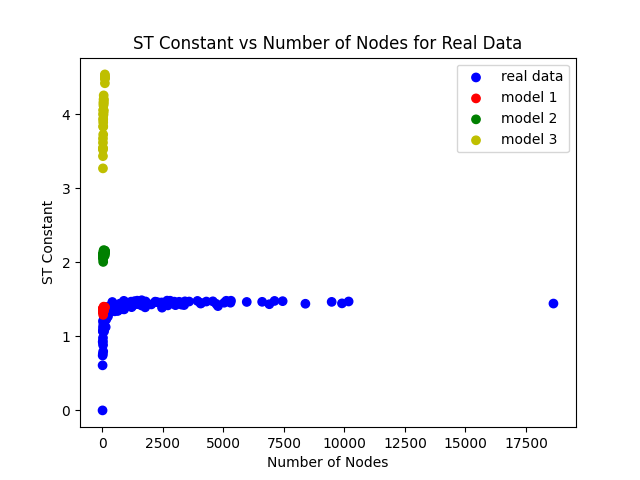
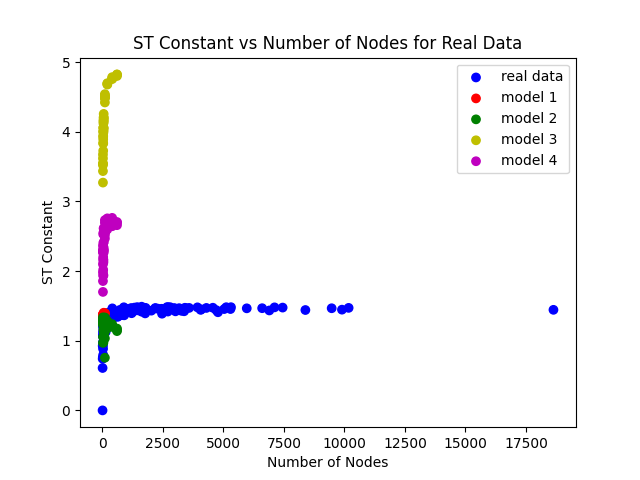
update spanning trees plots

diff --git a/spanning_trees.py b/spanning_trees.py
@@ -90,6 +90,9 @@ else:
 #  model 1  #
 #############
 
+# Import data to get rand_seed, num_vertices, and prob base
+df = pd.read_excel("model_one_results.xlsx", sheet_name="5.4", skiprows=2)
+
 file_paths = ['pkls/num_nodes_m1.pkl', 'pkls/tree_const_m1.pkl', 'pkls/log_trees_m1.pkl']
 if check_file_paths(file_paths):
     with open('pkls/num_nodes_m1.pkl', 'rb') as f:
@@ -102,9 +105,6 @@ else:
     num_nodes_m1 = []
     tree_const_m1 = []
     log_trees_m1 = []
-
-    # Import data to get rand_seed, num_vertices, and prob base
-    df = pd.read_excel("model_one_results.xlsx", sheet_name="5.4", skiprows=2)
 
     for index, row in df.iterrows():
         nodes = int(row["num_vertices"])
@@ -131,6 +131,18 @@ else:
     with open('pkls/log_trees_m1.pkl', 'wb') as f:
         pickle.dump(log_trees_m1, f)
 
+###############
+# Update Data #
+###############
+
+# Edit previous imported data to get only rand_seed and num_vertices
+new_df = df[["num_vertices", "rand_seed"]].drop_duplicates()
+
+new_vert = [200, 400, 600] #, 800] # , 10000, 12000, 14000, 16000, 18000, 20000, 25000]
+for seed in df["rand_seed"].unique()[0:3]:
+    for vert in new_vert:
+        new_row = pd.DataFrame([{'num_vertices': vert, 'rand_seed': seed}])
+        new_df = pd.concat([new_df, new_row], ignore_index=True)
 
 #############
 #  model 2  #
@@ -148,9 +160,6 @@ else:
     num_nodes_m2 = []
     tree_const_m2 = []
     log_trees_m2 = []
-
-    # Edit previous imported data to get only rand_seed and num_vertices
-    new_df = df[["num_vertices", "rand_seed"]].drop_duplicates()
 
     for index, row in new_df.iterrows():
         nodes = int(row["num_vertices"])
@@ -181,7 +190,7 @@ else:
 #  model 3  #
 #############
 
-file_paths = ['pkls/num_nodes_m3.pkl', 'pkls/tree_const_m3.pkl', 'pkls/log_trees_m3.pkl']
+file_paths = ['no'] #['pkls/num_nodes_m3.pkl', 'pkls/tree_const_m3.pkl', 'pkls/log_trees_m3.pkl']
 if check_file_paths(file_paths):
     with open('pkls/num_nodes_m3.pkl', 'rb') as f:
         num_nodes_m3 = pickle.load(f)
@@ -217,7 +226,49 @@ else:
         pickle.dump(tree_const_m3, f)
     with open('pkls/log_trees_m3.pkl', 'wb') as f:
         pickle.dump(log_trees_m3, f)
+
+
+#############
+#  model 4  #
+#############
+
+file_paths = ['pkls/num_nodes_m4.pkl', 'pkls/tree_const_m4.pkl', 'pkls/log_trees_m4.pkl']
+if check_file_paths(file_paths):
+    with open('pkls/num_nodes_m4.pkl', 'rb') as f:
+        num_nodes_m4 = pickle.load(f)
+    with open('pkls/tree_const_m4.pkl', 'rb') as f:
+        tree_const_m4 = pickle.load(f)
+    with open('pkls/log_trees_m4.pkl', 'rb') as f:
+        log_trees_m4 = pickle.load(f)
+else:
+    num_nodes_m4 = []
+    tree_const_m4 = []
+    log_trees_m4 = []
+
+    for index, row in new_df.iterrows():
+        nodes = int(row["num_vertices"])
+        rs = int(row["rand_seed"])
+        graph = models.model_three_with_removal(nodes, rs)
+
+        # calculate graph Laplacian
+        print('calculating model 4:', nodes, rs)
+        Lap = nx.laplacian_matrix(graph).toarray()
+        T = np.delete(Lap,1,0)
+        T = np.delete(T,1,1)
+        (sign, logabsdet) = slogdet(T)
+        if (sign == 1):
+            tree_const_m4.append(np.exp(logabsdet/nodes))
+            num_nodes_m4.append(nodes)
+            log_trees_m4.append(logabsdet)
     
+    # Save the lists as pickles so I do not have to run the code each time
+    with open('pkls/num_nodes_m4.pkl', 'wb') as f:
+        pickle.dump(num_nodes_m4, f)
+    with open('pkls/tree_const_m4.pkl', 'wb') as f:
+        pickle.dump(tree_const_m4, f)
+    with open('pkls/log_trees_m4.pkl', 'wb') as f:
+        pickle.dump(log_trees_m4, f)
+
 
 ###################################
 # plot st constant v num of nodes #
@@ -229,10 +280,11 @@ plt.scatter(num_nodes_real, tree_const_real, c=['b']*len(num_nodes_real))
 plt.scatter(num_nodes_m1, tree_const_m1, c=['r']*len(num_nodes_m1))
 plt.scatter(num_nodes_m2, tree_const_m2, c=['g']*len(num_nodes_m2))
 plt.scatter(num_nodes_m3, tree_const_m3, c=['y']*len(num_nodes_m3))
+plt.scatter(num_nodes_m4, tree_const_m4, c=['m']*len(num_nodes_m4))
 plt.title('ST Constant vs Number of Nodes for Real Data')
 plt.xlabel('Number of Nodes')
 plt.ylabel('ST Constant')
-plt.legend(['real data','model 1', 'model 2', 'model 3'])
+plt.legend(['real data','model 1', 'model 2', 'model 3', 'model 4'])
 plt.savefig(f'imgs/st_cons/st_cons_real_data_vs_models.png')
 plt.show()
 
@@ -241,11 +293,12 @@ plt.scatter(num_nodes_real, tree_const_real, c=['b']*len(num_nodes_real))
 plt.scatter(num_nodes_m1, tree_const_m1, c=['r']*len(num_nodes_m1))
 plt.scatter(num_nodes_m2, tree_const_m2, c=['g']*len(num_nodes_m2))
 plt.scatter(num_nodes_m3, tree_const_m3, c=['y']*len(num_nodes_m3))
+plt.scatter(num_nodes_m4, tree_const_m4, c=['m']*len(num_nodes_m4))
 plt.title('ST Constant vs Number of Nodes for Real Data')
 plt.xlabel('Number of Nodes')
 plt.ylabel('ST Constant')
 plt.xlim(0, 1000)
-plt.legend(['real data','model 1', 'model 2', 'model 3'])
+plt.legend(['real data','model 1', 'model 2', 'model 3', 'model 4'])
 plt.savefig(f'imgs/st_cons/st_cons_zoomed_in_real_data_vs_models_.png')
 plt.show()
 
